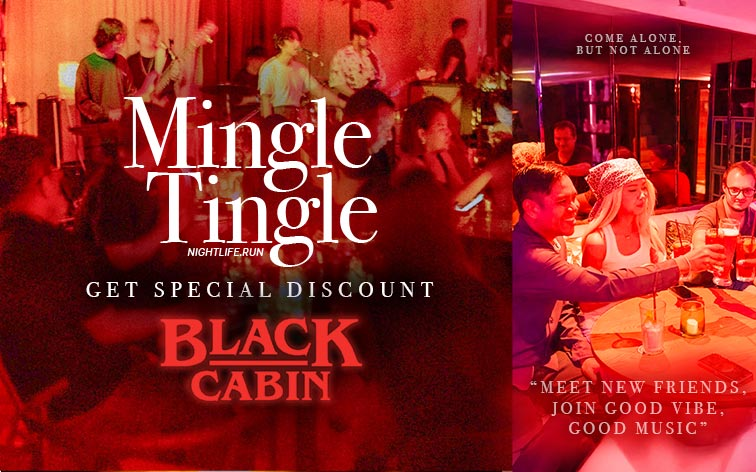
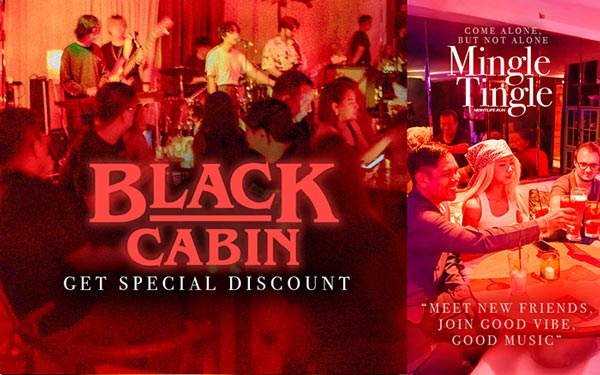
22

diff --git a/src/components/VideotextnightlifeMobile.jsx b/src/components/VideotextnightlifeMobile.jsx
@@ -286,7 +286,7 @@ function VideotextnightlifeMobile() {
                     <img src="/img/logo_mingle.png" style={{ width: "100%" }} />
                   </b>
                   <br />
-                  Get New Friends,
+                  Meet New Friends,
                   <br />
                   Enjoy Good Vibes & Music!
                 </div>

diff --git a/src/components/Videotextnightlife.jsx b/src/components/Videotextnightlife.jsx
@@ -306,7 +306,7 @@ function Videotextnightlife() {
                     <img src="/img/logo_mingle.png" style={{ width: "50%" }} />
                   </b>
                   <br />
-                  Get New Friends,
+                  Meet New Friends,
                   <br />
                   Enjoy Good Vibes & Music!
                 </div>
